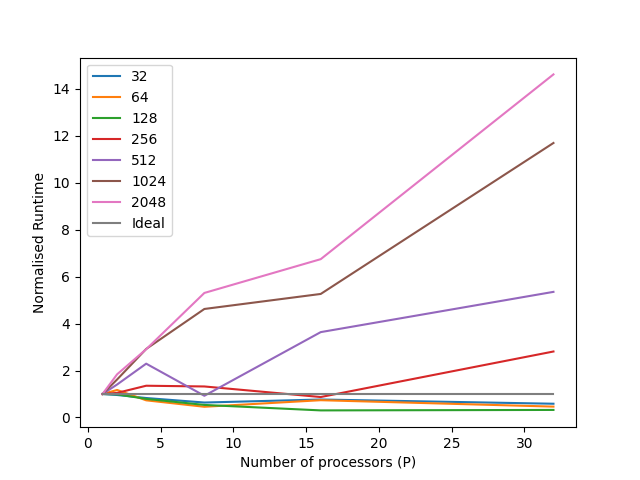
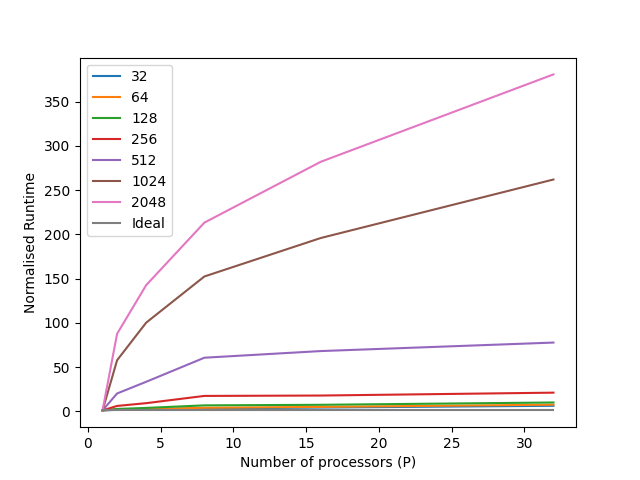
Updating MPI MyFunc Figures

diff --git a/TesterFiles/MPI/Gen_MPI_graphs.py b/TesterFiles/MPI/Gen_MPI_graphs.py
@@ -55,7 +55,7 @@ def main():
             print(f"time df: \n{time_df}")
             speedup_df = apply_speedup(time_df,core_list)
             print(f"speedup df: \n{speedup_df}")
-            #gen_plot(speedup_df,p,True,speedup_pkl_name,func_name)
+            gen_plot(speedup_df,p,True,speedup_pkl_name,func_name)
         for norm_pkl_name in norm_pkl_list:
             print(f"\n\n{norm_pkl_name}")
             time_df = read_df_pickle(f"{func_name}/Time_dfs/{norm_pkl_name}_df.pkl")
@@ -64,7 +64,7 @@ def main():
             print(f"time df: \n{time_df}")
             norm_df = apply_norm(time_df,0,core_list)
             print(f"norm df: \n{norm_df}")
-            #gen_plot(norm_df,p,False,norm_pkl_name,func_name)
+            gen_plot(norm_df,p,False,norm_pkl_name,func_name)
 
 
 if __name__ == '__main__':
